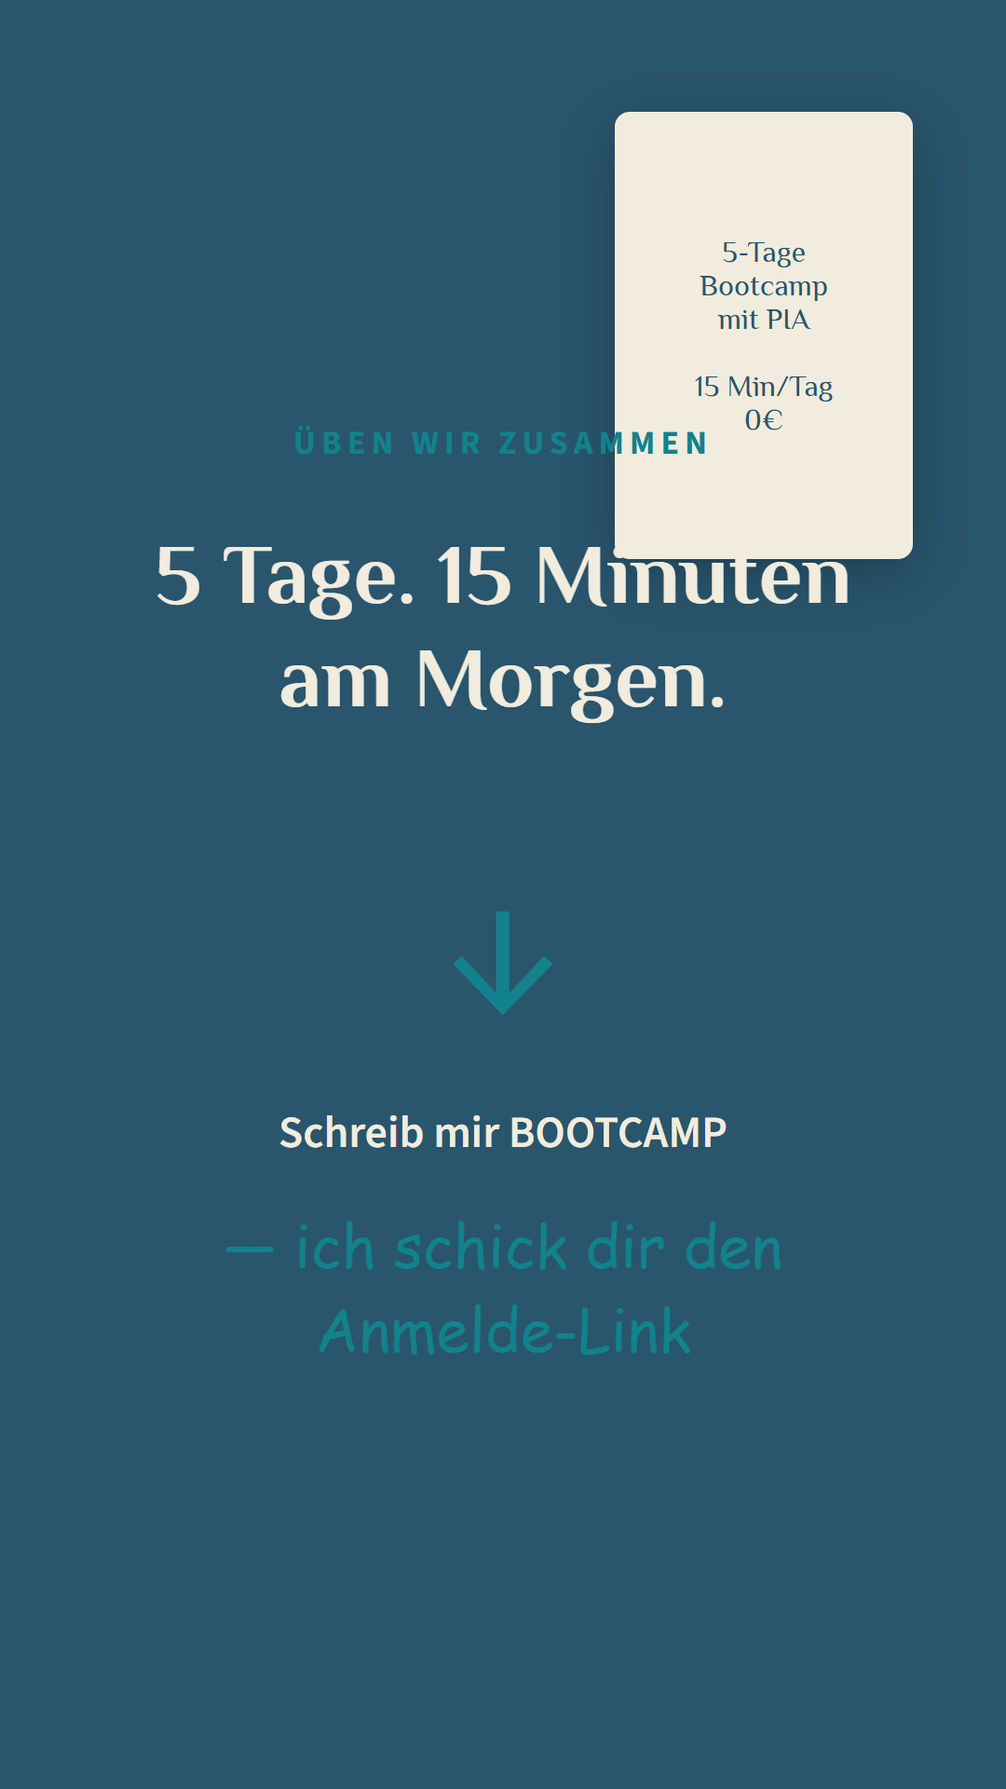
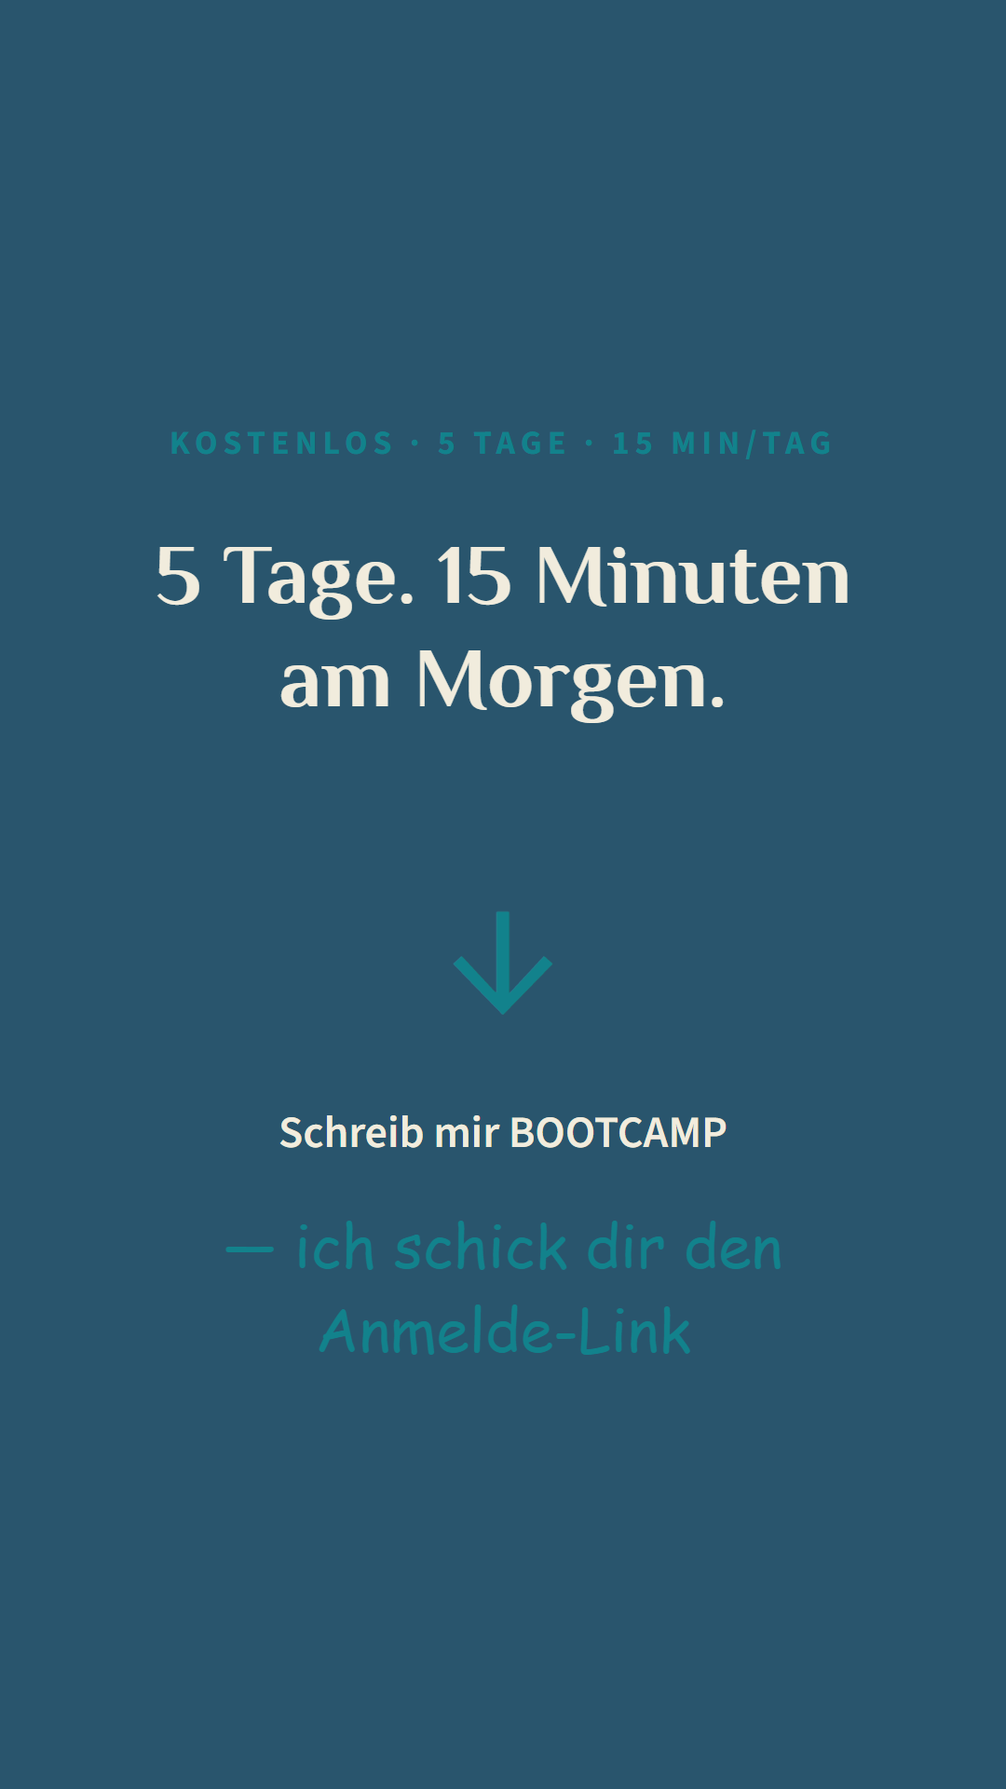
auto-sync: 2026-06-24 11:11 (4 files)

diff --git a/outputs/produkte/mba-launch/mba-salespage.html b/outputs/produkte/mba-launch/mba-salespage.html
@@ -1,0 +1,344 @@
+<!--
+  MBA Salespage — Layout-Muster analog Julia Trost "Elevate", in Patricia-Brand.
+  Standalone HTML (Vorschau im Browser). Für WordPress: <body>-Inhalt in wp:html-Block.
+  Platzhalter vor Live-Gang ersetzen: [MBA-CHECKOUT-LINK], Testimonials, ggf. Foto-URLs.
+  Stand 24.6.2026 · keine Garantie · Cart-Ende 9.7.
+-->
+<!DOCTYPE html>
+<html lang="de">
+<head>
+<meta charset="UTF-8">
+<meta name="viewport" content="width=device-width, initial-scale=1.0">
+<title>Mum Business Academy — dein Weg zu finanzieller Freiheit</title>
+<link rel="preconnect" href="https://fonts.googleapis.com">
+<link rel="preconnect" href="https://fonts.gstatic.com" crossorigin>
+<link href="https://fonts.googleapis.com/css2?family=Philosopher:wght@400;700&family=Source+Sans+3:wght@300;400;600;700&display=swap" rel="stylesheet">
+<style>
+  :root{
+    --creme:#f1ecdd; --cremebg:#f7f3e9; --petrol:#2e5d5e; --petroltief:#234748;
+    --dunkel:#233b4d; --akzent:#c98a4b; --text:#2b2b28; --muted:#6c6a62; --linie:#e0d8c4;
+  }
+  *{box-sizing:border-box;margin:0;padding:0}
+  html{scroll-behavior:smooth}
+  body{font-family:'Source Sans 3',sans-serif;color:var(--text);background:var(--creme);line-height:1.6;font-weight:300;font-size:18px}
+  h1,h2,h3,h4{font-family:'Philosopher',serif;font-weight:700;line-height:1.15;color:var(--dunkel)}
+  .wrap{max-width:980px;margin:0 auto;padding:0 24px}
+  .narrow{max-width:760px;margin:0 auto;padding:0 24px}
+  section{padding:84px 0}
+  .eyebrow{font-size:13px;letter-spacing:.22em;text-transform:uppercase;color:var(--petrol);font-weight:600;margin-bottom:18px}
+  .btn{display:inline-block;background:var(--petrol);color:#fff;text-decoration:none;font-weight:600;font-size:18px;
+       padding:18px 40px;border-radius:50px;transition:.2s;border:none;cursor:pointer;letter-spacing:.01em}
+  .btn:hover{background:var(--petroltief);transform:translateY(-2px)}
+  .btn-sub{display:block;font-size:14px;color:var(--muted);margin-top:14px}
+  .center{text-align:center}
+
+  /* Sticky top bar */
+  .topbar{position:sticky;top:0;z-index:50;background:var(--dunkel);color:#fff;text-align:center;
+          padding:10px 16px;font-size:14px;letter-spacing:.04em}
+  .topbar a{color:#fff;font-weight:600;text-decoration:underline;margin-left:10px}
+
+  /* Hero */
+  .hero{background:linear-gradient(180deg,var(--cremebg),var(--creme));padding:96px 0 76px;text-align:center}
+  .hero h1{font-size:clamp(34px,5.5vw,58px);margin:14px auto 22px;max-width:880px}
+  .hero p.lead{font-size:21px;max-width:680px;margin:0 auto 34px;color:var(--text)}
+
+  /* Marquee separator */
+  .marquee{background:var(--petrol);color:var(--creme);overflow:hidden;white-space:nowrap;padding:14px 0;
+           font-family:'Philosopher',serif;letter-spacing:.18em;text-transform:uppercase;font-size:15px}
+  .marquee span{display:inline-block;padding-left:100%;animation:scroll 22s linear infinite}
+  @keyframes scroll{0%{transform:translateX(0)}100%{transform:translateX(-100%)}}
+
+  /* Numbered cards */
+  .num-grid{display:grid;grid-template-columns:1fr 1fr;gap:22px;margin-top:40px}
+  .num-card{background:var(--cremebg);border:1px solid var(--linie);border-radius:18px;padding:30px 28px}
+  .num-card .n{font-family:'Philosopher',serif;font-size:30px;color:var(--petrol);font-weight:700;display:block;margin-bottom:10px}
+  .num-card h3{font-size:21px;margin-bottom:8px}
+
+  /* Feature blocks */
+  .feat{display:flex;gap:20px;align-items:flex-start;padding:26px 0;border-bottom:1px solid var(--linie)}
+  .feat:last-child{border-bottom:none}
+  .feat .ico{font-size:30px;flex-shrink:0;width:46px;text-align:center}
+  .feat h3{font-size:22px;margin-bottom:6px}
+  .feat .after{color:var(--petrol);font-style:italic;font-weight:600;margin-top:8px}
+
+  /* Steps */
+  .steps{display:grid;grid-template-columns:repeat(3,1fr);gap:24px;margin-top:40px}
+  .step{text-align:center;padding:18px}
+  .step .n{display:inline-flex;width:54px;height:54px;border-radius:50%;background:var(--petrol);color:#fff;
+           align-items:center;justify-content:center;font-family:'Philosopher',serif;font-size:24px;margin-bottom:16px}
+
+  /* Eligibility */
+  .elig{display:grid;grid-template-columns:1fr 1fr;gap:24px;margin-top:30px}
+  .elig .box{border-radius:18px;padding:32px 30px}
+  .elig .yes{background:var(--petrol);color:var(--creme)}
+  .elig .yes h3{color:#fff}
+  .elig .no{background:var(--cremebg);border:1px solid var(--linie)}
+  .elig ul{list-style:none;margin-top:14px}
+  .elig li{padding:8px 0 8px 30px;position:relative}
+  .elig .yes li::before{content:"✓";position:absolute;left:0;font-weight:700}
+  .elig .no li::before{content:"✕";position:absolute;left:0;color:var(--akzent);font-weight:700}
+
+  /* Bonus */
+  .bonus-grid{display:grid;grid-template-columns:1fr 1fr 1fr;gap:20px;margin-top:36px}
+  .bonus{background:var(--cremebg);border:1px solid var(--linie);border-radius:18px;padding:28px 24px;text-align:center}
+  .bonus .ico{font-size:34px;display:block;margin-bottom:12px}
+
+  /* Pricing */
+  .price-sec{background:var(--dunkel);color:var(--creme)}
+  .price-sec h2,.price-sec .eyebrow{color:#fff}
+  .price-sec .eyebrow{color:#cdbf9c}
+  .pricecard{background:var(--creme);color:var(--text);max-width:520px;margin:38px auto 0;border-radius:22px;
+             padding:44px 40px;text-align:center;box-shadow:0 24px 60px rgba(0,0,0,.25)}
+  .pricecard .old{color:var(--muted);text-decoration:line-through;font-size:20px}
+  .pricecard .big{font-family:'Philosopher',serif;font-size:62px;color:var(--petrol);font-weight:700;line-height:1}
+  .pricecard .rate{color:var(--muted);margin:6px 0 24px}
+  .pricecard ul{list-style:none;text-align:left;margin:24px 0;display:inline-block}
+  .pricecard li{padding:7px 0 7px 30px;position:relative}
+  .pricecard li::before{content:"✔";position:absolute;left:0;color:var(--petrol)}
+  .anrechnung{background:rgba(255,255,255,.1);border:1px solid rgba(255,255,255,.25);border-radius:14px;
+              padding:18px 22px;max-width:520px;margin:22px auto 0;font-size:16px;text-align:center}
+
+  /* Testimonials */
+  .testi-grid{display:grid;grid-template-columns:1fr 1fr;gap:22px;margin-top:36px}
+  .testi{background:var(--cremebg);border:1px solid var(--linie);border-radius:18px;padding:28px;font-style:italic}
+  .testi .who{display:block;margin-top:14px;font-style:normal;font-weight:600;color:var(--petrol)}
+
+  /* Why */
+  .why-grid{display:grid;grid-template-columns:repeat(3,1fr);gap:26px;margin-top:38px}
+  .why .ico{font-size:32px;margin-bottom:12px}
+
+  /* FAQ */
+  details{background:var(--cremebg);border:1px solid var(--linie);border-radius:14px;margin-bottom:14px;padding:4px 24px}
+  summary{cursor:pointer;font-family:'Philosopher',serif;font-size:20px;color:var(--dunkel);padding:18px 0;list-style:none;
+          position:relative;font-weight:700}
+  summary::-webkit-details-marker{display:none}
+  summary::after{content:"+";position:absolute;right:0;color:var(--petrol);font-size:26px}
+  details[open] summary::after{content:"–"}
+  details p{padding:0 0 20px}
+
+  /* Founder */
+  .founder{background:var(--cremebg)}
+  .founder .narrow{text-align:center}
+
+  /* Final */
+  .final{background:linear-gradient(180deg,var(--petrol),var(--petroltief));color:var(--creme);text-align:center}
+  .final h2{color:#fff;font-size:clamp(30px,4.5vw,46px);margin-bottom:20px}
+  .final .btn{background:var(--creme);color:var(--petroltief)}
+  .final .btn:hover{background:#fff}
+
+  h2.sec-title{font-size:clamp(28px,4vw,40px);text-align:center;margin-bottom:8px}
+  p.sec-intro{text-align:center;max-width:640px;margin:0 auto;color:var(--muted)}
+
+  @media(max-width:760px){
+    section{padding:60px 0}
+    .num-grid,.steps,.elig,.bonus-grid,.testi-grid,.why-grid{grid-template-columns:1fr}
+    body{font-size:17px}
+  }
+</style>
+</head>
+<body>
+
+<!-- Sticky bar -->
+<div class="topbar">Pioneer-Runde offen bis <strong>9. Juli</strong><a href="[MBA-CHECKOUT-LINK]">Platz sichern →</a></div>
+
+<!-- 1. HERO -->
+<header class="hero">
+  <div class="wrap">
+    <div class="eyebrow">Für Mamas im Network, die mehr wollen</div>
+    <h1>Aus „ich mach hundert Sachen halb" wird dein klarer Weg zu finanzieller Freiheit.</h1>
+    <p class="lead">Die Mum Business Academy ist alles, was du brauchst, um neben Kindern und Alltag ein Business aufzubauen, das wirklich dir gehört — drei Kurse, ein ganzes Jahr Begleitung und PIA, deine KI-Mentorin, die mit dir umsetzt.</p>
+    <a class="btn" href="[MBA-CHECKOUT-LINK]">Ja, ich will meinen Platz</a>
+    <span class="btn-sub">Pioneer-Preis nur in der ersten Runde · in bis zu 6 Raten ohne Aufpreis</span>
+  </div>
+</header>
+
+<div class="marquee"><span>Die Türen sind offen &nbsp;·&nbsp; Pioneer-Runde &nbsp;·&nbsp; bis 9. Juli &nbsp;·&nbsp; Die Türen sind offen &nbsp;·&nbsp; Pioneer-Runde &nbsp;·&nbsp; bis 9. Juli &nbsp;·&nbsp;</span></div>
+
+<!-- 2. PROBLEM -->
+<section>
+  <div class="wrap">
+    <h2 class="sec-title">Kennst du das?</h2>
+    <p class="sec-intro">Und mir ging es vor gar nicht so langer Zeit genauso.</p>
+    <div class="num-grid">
+      <div class="num-card"><span class="n">01</span><h3>Du hast schon so viel gelernt</h3><p>Kurse, Reels, Webinare — und sitzt trotzdem abends da und weisst nicht, was du zuerst tun sollst.</p></div>
+      <div class="num-card"><span class="n">02</span><h3>Du postest, es passiert wenig</h3><p>Schöne Produktbilder, kaum Resonanz. Und du fragst dich leise: Mach ich irgendwas grundsätzlich falsch?</p></div>
+      <div class="num-card"><span class="n">03</span><h3>Deine warme Liste ist durch</h3><p>Du klapperst zum zehnten Mal die gleichen Leute ab — und es fühlt sich langsam unangenehm an.</p></div>
+      <div class="num-card"><span class="n">04</span><h3>Du willst eigentlich mehr</h3><p>Tief drin geht es um finanzielle Freiheit und Unabhängigkeit. Ein Einkommen, das dir gehört.</p></div>
+    </div>
+    <p class="center" style="margin-top:36px;font-size:21px"><strong>Du machst nichts falsch.</strong> Dir fehlt nur ein roter Faden — und jemand, der mit dir dranbleibt.</p>
+  </div>
+</section>
+
+<!-- 3. WENDE -->
+<section style="background:var(--cremebg)">
+  <div class="narrow center">
+    <div class="eyebrow">Die Wende</div>
+    <h2 class="sec-title">Es braucht nicht den einen Baustein — es braucht alle.</h2>
+    <p style="margin-top:18px">Was den Unterschied macht, ist nicht noch ein PDF. Es ist ein klarer Weg in der richtigen Reihenfolge — und die Erkenntnis, dass sichtbar werden, dir Zeit schaffen, ein eigenes Angebot aufbauen und dranbleiben erst <em>zusammen</em> ans Ziel führen. Genau dafür gibt es die Mum Business Academy.</p>
+  </div>
+</section>
+
+<!-- 4. ANGEBOT / Bausteine -->
+<section>
+  <div class="narrow">
+    <h2 class="sec-title">Das ist die MBA</h2>
+    <p class="sec-intro">Dein Weg, deine Begleitung, dein eigenes Business — ein ganzes Jahr.</p>
+    <div style="margin-top:40px">
+      <div class="feat"><div class="ico">🤖</div><div><h3>PIA — deine KI-Mentorin, jeden Tag</h3><p>Sie baut mit dir Bio, Hooks, fertige Posts, Stories, deinen Leadmagnet, ganze Content-Wochen und deinen Funnel — alles in deiner Stimme.</p></div></div>
+      <div class="feat"><div class="ico">📱</div><div><h3>Instagram-Kundenmaschine</h3><p>Damit Frauen DICH anschreiben, statt dass du suchst.</p></div></div>
+      <div class="feat"><div class="ico">⏰</div><div><h3>Mama-CEO</h3><p>Damit dein Business zwischen Znüni und Abholzeit wirklich stattfindet.</p></div></div>
+      <div class="feat"><div class="ico">🚀</div><div><h3>Digitale Produktwelt</h3><p>Dein eigenes digitales Angebot, das auch verkauft, wenn du am Spielplatz sitzt.</p></div></div>
+      <div class="feat"><div class="ico">🤝</div><div><h3>Die Umsetzerinnen — Begleitung übers ganze Jahr</h3><p>Zwei Live-Calls pro Monat (ein Experten-Call inkl. Q&amp;A + ein reiner Q&amp;A) und eine begleitete Telegram-Gruppe, in der ich deine Fragen dienstags &amp; donnerstags persönlich beantworte. Alle Calls werden aufgezeichnet.</p></div></div>
+      <div class="feat"><div class="ico">♾</div><div><h3>Alle Kurse unbegrenzt zugänglich</h3><p>Du lernst in deinem Tempo und kommst immer wieder rein.</p></div></div>
+    </div>
+  </div>
+</section>
+
+<div class="marquee"><span>Sichtbar werden &nbsp;·&nbsp; Zeit schaffen &nbsp;·&nbsp; eigenes Angebot &nbsp;·&nbsp; dranbleiben &nbsp;·&nbsp; Sichtbar werden &nbsp;·&nbsp; Zeit schaffen &nbsp;·&nbsp; eigenes Angebot &nbsp;·&nbsp; dranbleiben &nbsp;·&nbsp;</span></div>
+
+<!-- 5. KURSE nummeriert -->
+<section>
+  <div class="narrow">
+    <h2 class="sec-title">Was in den Kursen steckt</h2>
+    <p class="sec-intro">Keine Modul-Listen — sondern, wer du danach bist.</p>
+    <div style="margin-top:40px">
+      <div class="feat"><div class="ico" style="font-family:'Philosopher',serif;color:var(--petrol);font-weight:700">01</div><div><h3>Instagram-Kundenmaschine</h3><p>Dein Profil wird von „Produktkatalog, den keiner liked" zur Bibliothek, die anzieht — Thema, Hooks, Beiträge, Stories und Keywords, die Anfragen auslösen.</p><p class="after">→ Danach weisst du jeden Tag, was du postest, und es bringt dir echte Gespräche.</p></div></div>
+      <div class="feat"><div class="ico" style="font-family:'Philosopher',serif;color:var(--petrol);font-weight:700">02</div><div><h3>Mama-CEO</h3><p>Du schaffst dir Zeit (Powerzeiten, Hütchenmethode), holst dir KI-Mitarbeiter und baust dein Business-Brain in Notion — vom Jahr runter bis zum Tag.</p><p class="after">→ Danach läuft dein Business in ein paar fokussierten Stunden, nicht in einem schlechten Gewissen rund um die Uhr.</p></div></div>
+      <div class="feat"><div class="ico" style="font-family:'Philosopher',serif;color:var(--petrol);font-weight:700">03</div><div><h3>Digitale Produktwelt</h3><p>Du baust dein erstes digitales Produkt (mit KI), deine Produkttreppe und deinen Funnel — und lernst zu verkaufen, ohne dich zu verbiegen.</p><p class="after">→ Danach hast du Einkommen, das dir gehört — und nicht von der nächsten Teamaktion abhängt.</p></div></div>
+    </div>
+  </div>
+</section>
+
+<!-- 6. SCHRITTE -->
+<section style="background:var(--cremebg)">
+  <div class="wrap">
+    <h2 class="sec-title">So einfach sind die Schritte</h2>
+    <div class="steps">
+      <div class="step"><span class="n">1</span><h3>Platz sichern</h3><p>Du holst dir deinen Pioneer-Platz — sofort drin.</p></div>
+      <div class="step"><span class="n">2</span><h3>Sofort starten</h3><p>Du legst los mit PIA und den Kursen, in deinem Tempo, schon über den Sommer.</p></div>
+      <div class="step"><span class="n">3</span><h3>Gemeinsam dranbleiben</h3><p>Nach den Sommerferien starten wir live — und du bleibst nie allein.</p></div>
+    </div>
+  </div>
+</section>
+
+<!-- 7. FÜR WEN -->
+<section>
+  <div class="wrap">
+    <h2 class="sec-title">Ist die MBA das Richtige für dich?</h2>
+    <div class="elig">
+      <div class="box yes"><h3>Das ist für dich, wenn du…</h3>
+        <ul>
+          <li>dich nach finanzieller Freiheit und Unabhängigkeit sehnst</li>
+          <li>endlich einen roten Faden statt hundert halber Sachen willst</li>
+          <li>Begleitung willst, nicht noch ein PDF</li>
+          <li>dein Business neben der Familie aufbaust und deine Zeit klug einsetzen willst</li>
+        </ul>
+      </div>
+      <div class="box no"><h3>In dem Fall (noch) nicht…</h3>
+        <ul>
+          <li>du die schnelle Abkürzung suchst</li>
+          <li>du nur konsumieren willst, statt umzusetzen</li>
+          <li>du auf gar keinen Fall sichtbar werden möchtest</li>
+        </ul>
+      </div>
+    </div>
+  </div>
+</section>
+
+<!-- 8. BONUS -->
+<section style="background:var(--cremebg)">
+  <div class="wrap">
+    <h2 class="sec-title">Deine Vorteile in der ersten Runde</h2>
+    <div class="bonus-grid">
+      <div class="bonus"><span class="ico">🤖</span><h3>PIA exklusiv</h3><p>Deine KI-Mentorin gibt es so nirgends sonst — dein unfairer Vorteil.</p></div>
+      <div class="bonus"><span class="ico">🏆</span><h3>Pioneer-Preis</h3><p>Engste Begleitung, die es je geben wird — zum tiefsten Preis aller Zeiten.</p></div>
+      <div class="bonus"><span class="ico">💡</span><h3>Kurs-Anrechnung</h3><p>Schon einen meiner Kurse? Der volle Kaufpreis wird dir angerechnet.</p></div>
+    </div>
+  </div>
+</section>
+
+<!-- 9. PREIS -->
+<section class="price-sec">
+  <div class="wrap center">
+    <div class="eyebrow">Pioneer-Preis — nur in der ersten Runde</div>
+    <h2 class="sec-title">Dein Platz in der MBA</h2>
+    <div class="pricecard">
+      <div class="old">statt CHF 1347</div>
+      <div class="big">CHF 997</div>
+      <div class="rate">oder 6 Raten à ca. CHF 166 — ohne Aufpreis</div>
+      <ul>
+        <li>Alle drei Kurse, unbegrenzt zugänglich</li>
+        <li>PIA, deine KI-Mentorin — jeden Tag</li>
+        <li>2 Live-Calls / Monat + Telegram-Begleitung (Di &amp; Do)</li>
+        <li>Ein ganzes Jahr Begleitung</li>
+        <li>Programmstart Mitte August — Zugang sofort</li>
+      </ul>
+      <div><a class="btn" href="[MBA-CHECKOUT-LINK]">Pioneer-Platz sichern</a></div>
+    </div>
+    <div class="anrechnung">💡 <strong>Schon einen meiner Kurse gekauft?</strong> Den vollen Kaufpreis rechne ich dir an die MBA an — du zahlst nie doppelt.</div>
+  </div>
+</section>
+
+<!-- 10. TESTIMONIALS -->
+<section>
+  <div class="wrap">
+    <h2 class="sec-title">Was Frauen über die Arbeit mit mir sagen</h2>
+    <div class="testi-grid">
+      <div class="testi">„[ECHTES MENTEE-TESTIMONIAL einsetzen]"<span class="who">— Vorname</span></div>
+      <div class="testi">„[ECHTES MENTEE-TESTIMONIAL einsetzen]"<span class="who">— Vorname</span></div>
+      <div class="testi">„[ECHTE BOOTCAMP-STIMME einsetzen]"<span class="who">— Vorname</span></div>
+      <div class="testi">„[ECHTE STIMME einsetzen]"<span class="who">— Vorname</span></div>
+    </div>
+    <p class="center" style="margin-top:20px;color:var(--muted);font-size:15px">(Platzhalter — nur echte Stimmen mit Erlaubnis einsetzen.)</p>
+  </div>
+</section>
+
+<!-- 11. WARUM -->
+<section style="background:var(--cremebg)">
+  <div class="wrap center">
+    <h2 class="sec-title">Du wirst es nicht bereuen</h2>
+    <div class="why-grid">
+      <div class="why"><div class="ico">🛠</div><h3>Umsetzung statt Theorie</h3><p>PIA nimmt dir die Arbeit ab — du kommst endlich ins Tun, statt nur zu lernen.</p></div>
+      <div class="why"><div class="ico">🧭</div><h3>Klarheit statt Chaos</h3><p>Ein Weg in der richtigen Reihenfolge — nie wieder „wo fang ich an?".</p></div>
+      <div class="why"><div class="ico">💛</div><h3>Nie mehr allein</h3><p>Zweimal im Monat live, dazu die Gruppe — jemand bleibt mit dir dran.</p></div>
+    </div>
+  </div>
+</section>
+
+<!-- 12. FAQ -->
+<section>
+  <div class="narrow">
+    <h2 class="sec-title">Häufige Fragen</h2>
+    <div style="margin-top:36px">
+      <details><summary>Ich hab so wenig Zeit.</summary><p>Genau dafür ist Mama-CEO da — und PIA nimmt dir den Grossteil der Arbeit ab. Du brauchst ein paar fokussierte Slots, keine 7 Stunden.</p></details>
+      <details><summary>Ich hab schon so viele Kurse und nichts umgesetzt.</summary><p>Eben. Das Problem war nie das Wissen, sondern die Umsetzung allein. Die MBA gibt dir den Weg in der richtigen Reihenfolge plus die Begleitung, die dich dranbleiben lässt.</p></details>
+      <details><summary>Ich hab einen deiner Kurse schon gekauft.</summary><p>Dann rechne ich dir den vollen Kaufpreis an die MBA an. Du verlierst nichts.</p></details>
+      <details><summary>Ich bin technisch nicht so fit.</summary><p>Musst du nicht sein. PIA und die Kurse nehmen dich Schritt für Schritt mit — und in den Calls und der Telegram-Gruppe kannst du jederzeit fragen.</p></details>
+      <details><summary>Wann sind die Calls?</summary><p>Zweimal im Monat, live (und aufgezeichnet, falls du nicht dabei sein kannst). Wir starten nach den Sommerferien und legen die festen Zeiten gemeinsam mit der Gruppe fest.</p></details>
+      <details><summary>Kann ich in Raten zahlen?</summary><p>Ja, in bis zu 6 Raten, ohne Aufpreis.</p></details>
+    </div>
+  </div>
+</section>
+
+<!-- 13. GRÜNDERIN -->
+<section class="founder">
+  <div class="narrow">
+    <div class="eyebrow center">Wer dich begleitet</div>
+    <h2 class="sec-title">Ich bin Patricia</h2>
+    <p style="margin-top:18px">Vierfache Mama — und ich kenne das Gefühl, im Funktionieren steckenzubleiben, von innen. Ich habe selbst jahrelang gedacht „eigentlich müsste ich", während der Alltag mich aufgefressen hat.</p>
+    <p style="margin-top:16px">Was mich rausgeholt hat, war nicht der nächste Kurs. Es war ein klarer Weg — und Menschen, die mit mir drangeblieben sind. Heute baue ich genau das für dich: nicht noch mehr Stoff, sondern den Weg plus die Begleitung, die ich mir damals selbst gewünscht hätte.</p>
+  </div>
+</section>
+
+<!-- 14. FINAL CTA -->
+<section class="final">
+  <div class="narrow">
+    <h2>Du musst das nicht allein machen.</h2>
+    <p style="font-size:20px;margin-bottom:30px">Ein klarer Weg, deine KI-Mentorin und ein ganzes Jahr Begleitung — alle Bausteine, die dich wirklich ans Ziel bringen, in einem Paket.</p>
+    <a class="btn" href="[MBA-CHECKOUT-LINK]">Ja, ich komme in die MBA</a>
+    <p style="margin-top:22px;font-size:15px;opacity:.85">Die Pioneer-Runde schliesst am 9. Juli.</p>
+  </div>
+</section>
+
+</body>
+</html>

diff --git a/outputs/stories/2026-06-24-einwandbehandlung-mentoring-laugenbaguette/slides.html b/outputs/stories/2026-06-24-einwandbehandlung-mentoring-laugenbaguette/slides.html
@@ -71,7 +71,7 @@
         <div class="content">
           <div class="label" style="color:#f5e555;">„Kostet zu viel Zeit"</div>
           <div class="body" style="color:#f1ecdd;">
-            Es geht nicht um <span class="akzent">mehr</span> Zeit. Wie beim Backen: Ich hab nicht länger gebacken, ich hab die Backzeit angepasst.
+            Es geht nicht um <span class="akzent" style="color:#f5e555;">mehr</span> Zeit. Wie beim Backen: Ich hab nicht länger gebacken, ich hab die Backzeit angepasst.
             <br><br>
             Du brauchst die richtigen kleinen Schritte — ich mach mein Business in rund 18 Stunden die Woche, mit vier Kindern.
           </div>
@@ -105,11 +105,8 @@
   <div class="stage-wrap">
     <div class="stage">
       <div class="slide template-cta">
-        <div class="product-mockup">
-          5-Tage<br>Bootcamp<br>mit PIA<br><br>15 Min/Tag<br>0€
-        </div>
         <div class="content">
-          <div class="cta-eyebrow">Üben wir zusammen</div>
+          <div class="cta-eyebrow">Kostenlos · 5 Tage · 15 Min/Tag</div>
           <div class="cta-headline">
             5 Tage. 15 Minuten<br>am Morgen.
           </div>
